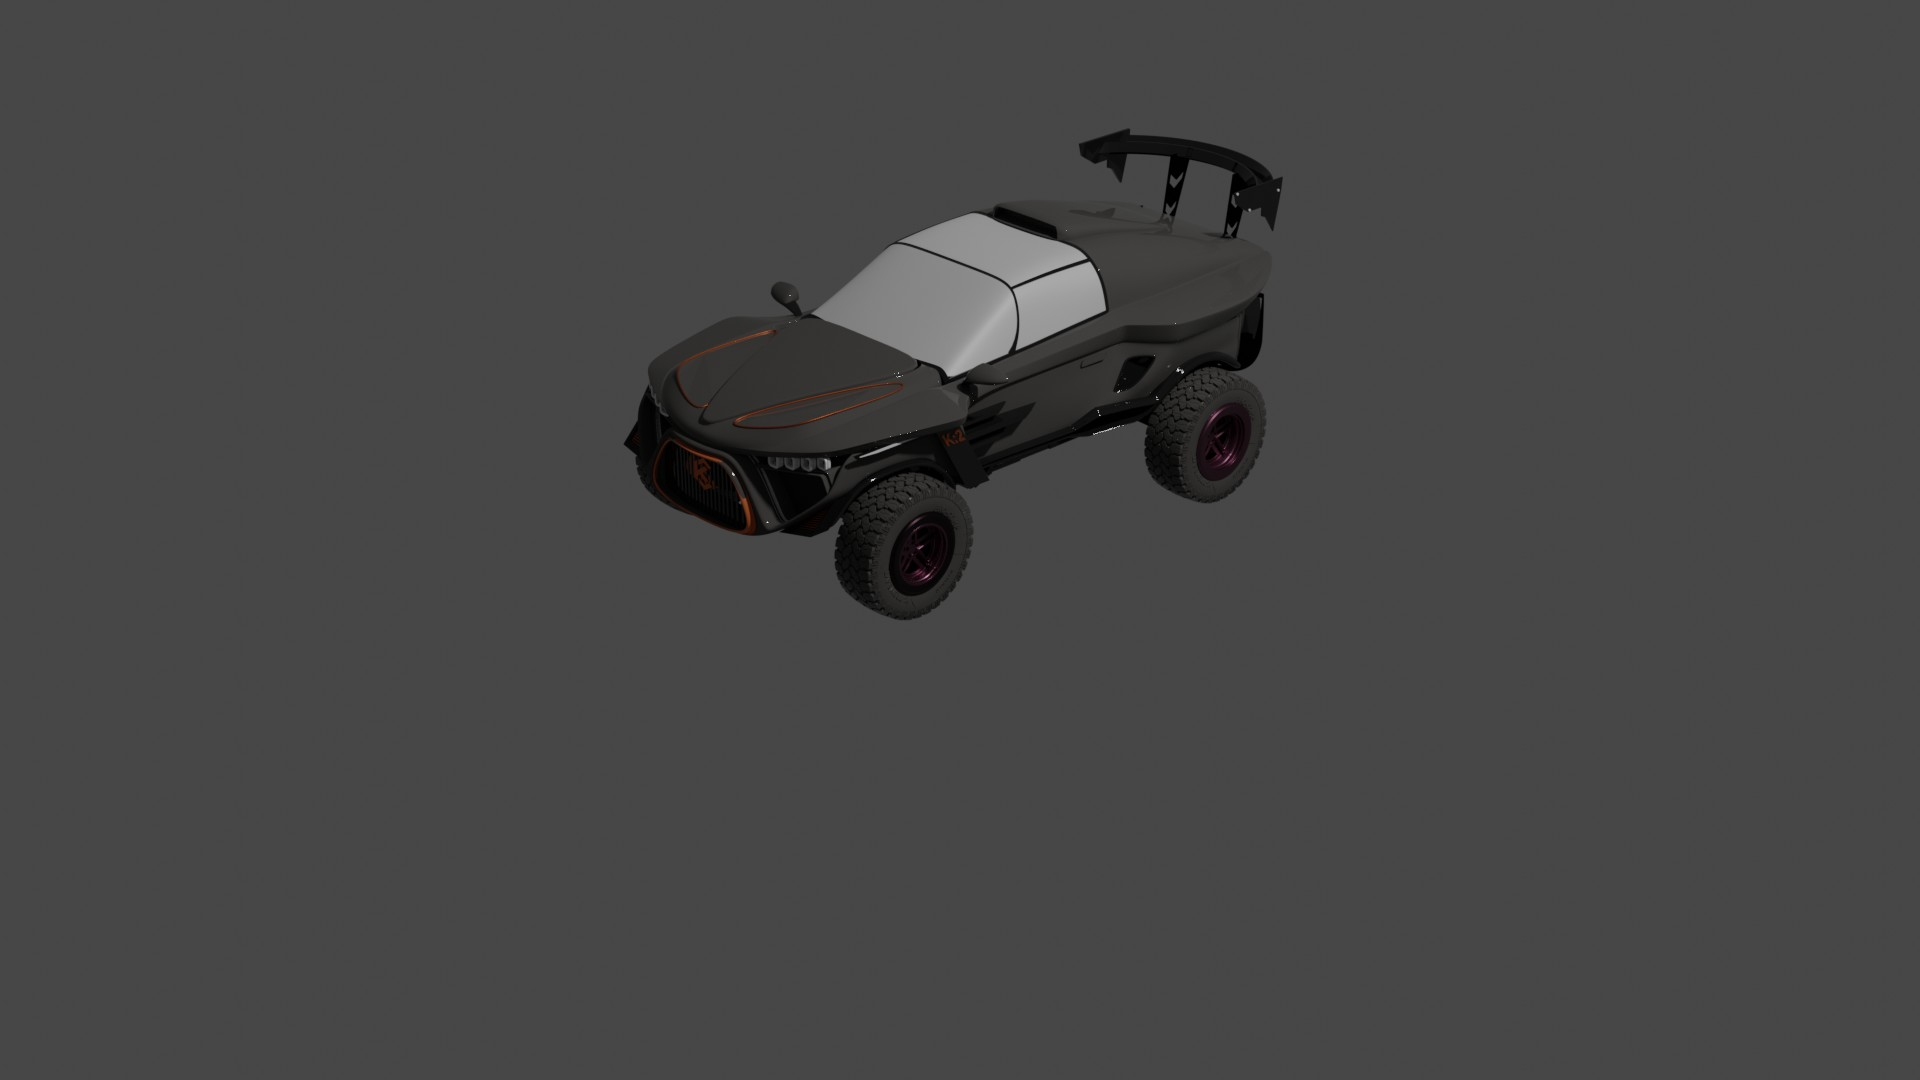
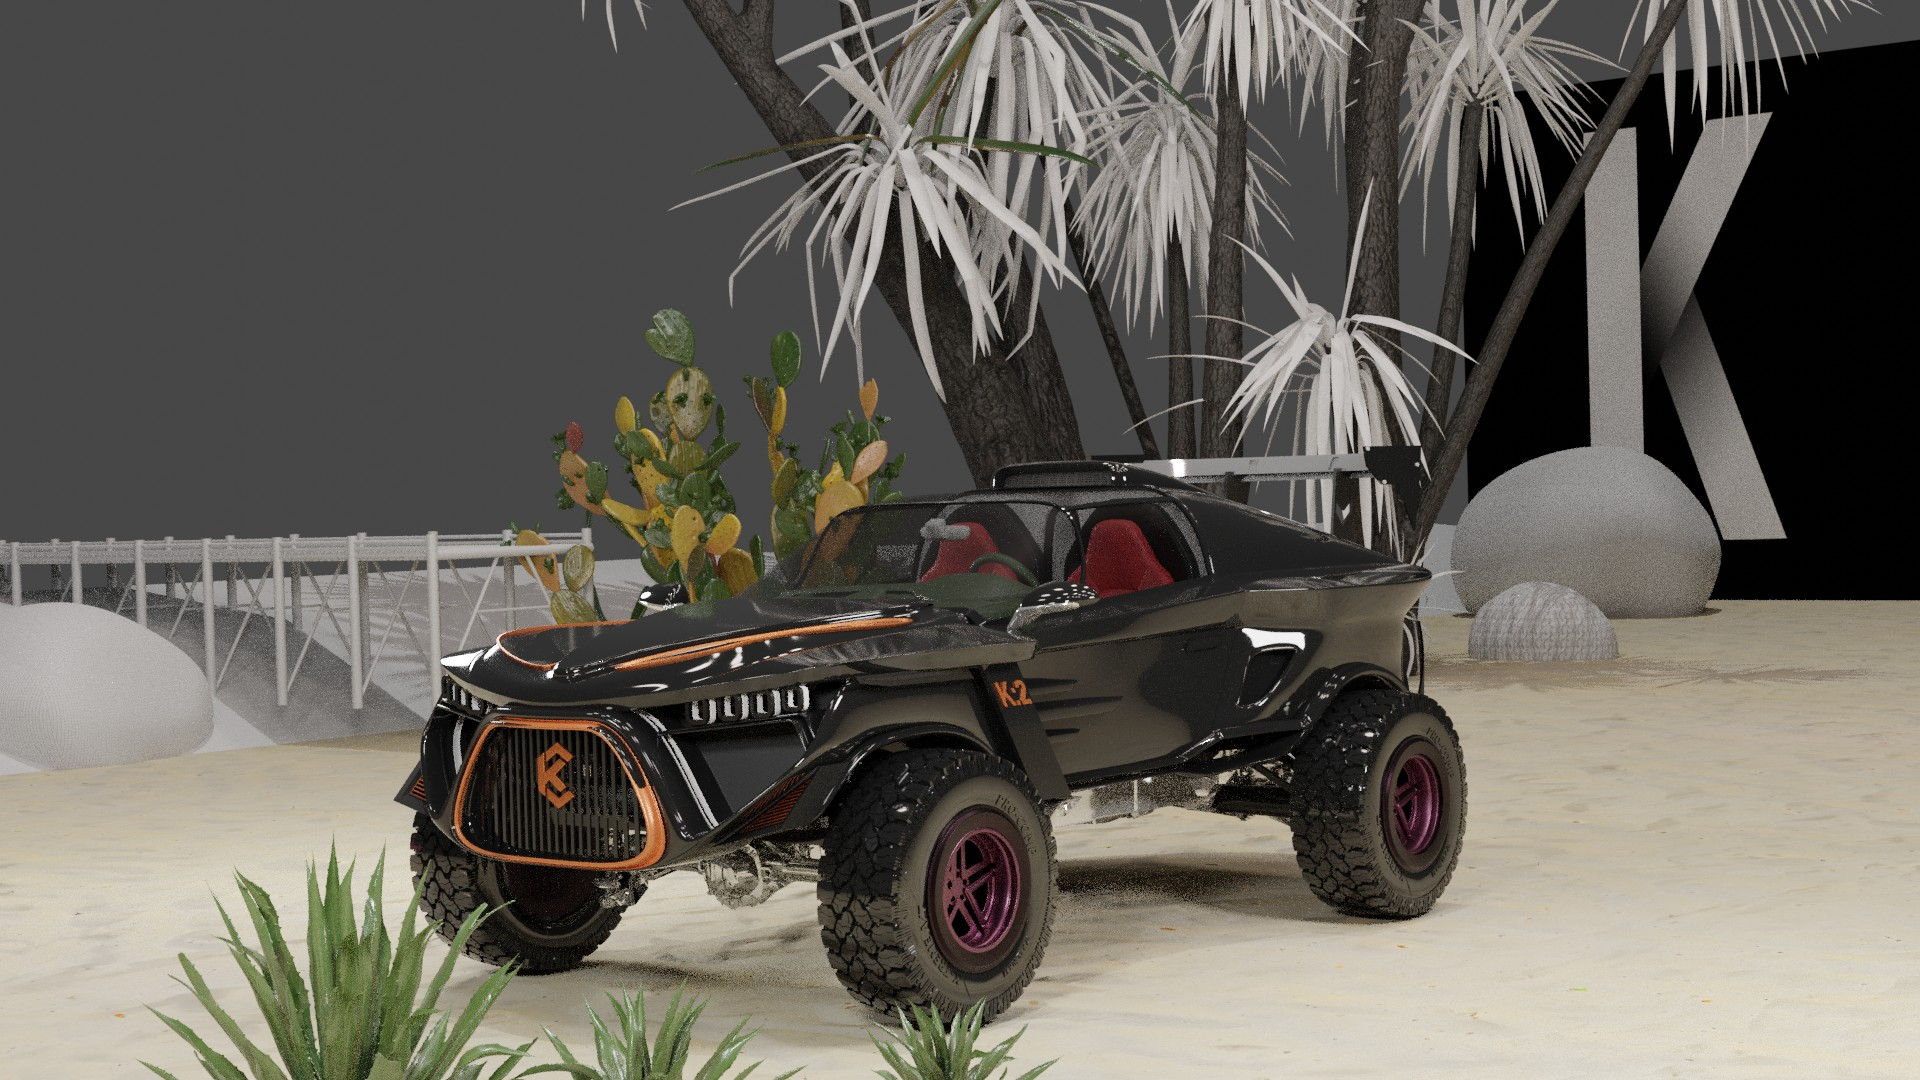
added render code

diff --git a/kadcarsnft_api/NFTFusion/test.py b/kadcarsnft_api/NFTFusion/test.py
@@ -1,0 +1,103 @@
+import bpy
+from bpy import context
+import os
+import math
+
+from render_utils import create_area_light_object
+
+path_to_glb_folder = "/usr/src/app/kadcars_backend_api/kadcarsnft_api/NFTFusion/assets" # If you are using Windows use r"\Users\Path\To\Folder"
+path_to_jpeg_folder = "/usr/src/app/kadcars_backend_api/kadcarsnft_api/NFTFusion/assets"
+
+def deleteAllObjects():
+    """
+    Deletes all objects in the current scene
+    """
+    deleteListObjects = ['MESH', 'CURVE', 'SURFACE', 'META', 'FONT', 'HAIR', 'POINTCLOUD', 'VOLUME', 'GPENCIL',
+                         'ARMATURE', 'LATTICE', 'EMPTY', 'LIGHT', 'LIGHT_PROBE', 'CAMERA', 'SPEAKER']
+
+    # Select all objects in the scene to be deleted:
+
+    for o in bpy.context.scene.objects:
+        for i in deleteListObjects:
+            if o.type == i:
+                o.select_set(False)
+            else:
+                o.select_set(True)
+    bpy.ops.object.delete() # Deletes all selected objects in the scene
+
+deleteAllObjects()
+
+glb_dirList = os.listdir(path_to_glb_folder)
+
+removeList = [".gitignore", ".DS_Store"] # If you have . files in your directory
+glb_dirList = [x for x in glb_dirList if (x not in removeList)]
+
+
+# bpy.ops.import_scene.gltf(filepath=os.path.join(path_to_glb_folder, "tessst.glb")) # Import .glb file to scene
+bpy.ops.import_scene.gltf(filepath=os.path.join(path_to_glb_folder, "GLTF.glb")) # Import .glb file to scene
+bpy.context.scene.render.filepath = path_to_jpeg_folder # Set save path for images
+bpy.context.scene.render.image_settings.file_format = "JPEG" # Set image file format
+# bpy.ops.object.camera_add(location=(0, 2, 4), rotation=(-0.7853, 0, 0))
+# bpy.ops.object.camera_add(location=(1,6,6), rotation=(0, math.pi/2, 0))
+obj_camera = bpy.data.objects["Camera"]
+bpy.context.scene.camera = obj_camera
+bpy.context.scene.render.engine = 'CYCLES'
+
+obj = bpy.data.objects["Object004.001"]
+obj.rotation_mode = 'XYZ'
+
+rotate_by = 4.21875   #How many degrees to rotate the knob for every step
+start_angle = 45      #What angle to start from
+
+# bpy.ops.object.light_add(type='AREA', location=[5, 5, 5])
+# light_ob = bpy.context.object
+# light = light_ob.data
+# light.energy = 50
+# light.color = (1, 1, 1)
+
+# bpy.ops.object.light_add(type='AREA', location=[15, 15, 15])
+# light_ob = bpy.context.object
+# light = light_ob.data
+# light.energy = 1000
+# light.color = (1, 0, 0)
+
+metadata = {
+    "align":'WORLD',
+    "location": [5,5,5],
+    "rotation": [0,0,0],
+    "scale": [0.683125, 2.105, 0.683],
+    "energy": 1000,
+    "color": [0,1,0],
+    "diffuse_factor": 1.0,
+    "specular_factor": 1.0,
+    "volume_factor": 1.0,
+    "shape": 'RECTANGLE',
+    "size": 0.25,
+    "size_y": 0.25,
+}
+metadata2 = {
+    "align":'WORLD',
+    "location": [15,15,15],
+    "rotation": [0,0,0],
+    "scale": [0.683125, 2.105, 0.683],
+    "energy": 1000,
+    "color": [1,0,0],
+    "diffuse_factor": 1.0,
+    "specular_factor": 1.0,
+    "volume_factor": 1.0,
+    "shape": 'RECTANGLE',
+    "size": 0.25,
+    "size_y": 0.25,
+}
+
+create_area_light_object(metadata)
+create_area_light_object(metadata2)
+
+# for x in range(1,65):
+#     angle = (start_angle * (math.pi/180)) + (x-1) * (rotate_by * (math.pi/180))
+#     obj.rotation_euler = ( angle, 0,  0)
+
+bpy.ops.render.render(write_still=True) # Tell Blender to render an image
+
+
+deleteAllObjects()

diff --git a/kadcarsnft_api/NFTFusion/views.py b/kadcarsnft_api/NFTFusion/views.py
@@ -4,11 +4,12 @@ import django
 from django.shortcuts import render
 from constants import *
 from blender_utils import deleteAllObjects
+from render_factory import *
 
 # Create your views here.
 
 
-def renderGltfModel():
+def renderModel(payload):
     deleteAllObjects()
 
     glb_dirList = os.listdir(path_to_glb_folder)
@@ -17,10 +18,15 @@ def renderGltfModel():
     removeList = [".gitignore", ".DS_Store"]
     glb_dirList = [x for x in glb_dirList if (x not in removeList)]
 
+    # import the scene with in the appropriate format as indicated by the payload
+    if payload["type"] == "fbx":
+        bpy.ops.import_scene.fbx(filepath=os.path.join(path_to_glb_folder, "./assets/balckk.fbx"))
+    elif payload["type"] == "gltf":
+        bpy.ops.import_scene.fbx(filepath=os.path.join(path_to_glb_folder, "./assets/balckk.fbx"))
 
     # bpy.ops.import_scene.gltf(filepath=os.path.join(path_to_glb_folder, "tessst.glb")) # Import .glb file to scene
-    bpy.ops.import_scene.fbx(filepath=os.path.join(
-        path_to_glb_folder, "./assets/balckk.fbx"))  # Import .glb file to scene
+    bpy.ops.import_scene.gltf(filepath=os.path.join(
+        path_to_glb_folder, "./assets/2.glb"))  # Import .glb file to scene
     bpy.context.scene.render.filepath = path_to_jpeg_folder  # Set save path for images
     bpy.context.scene.render.image_settings.file_format = "JPEG"  # Set image file format
     # bpy.ops.object.camera_add(location=(0, 2, 4), rotation=(-0.7853, 0, 0))

diff --git a/kadcarsnft_api/NFTFusion/render_utils.py b/kadcarsnft_api/NFTFusion/render_utils.py
@@ -1,0 +1,39 @@
+import bpy
+from bpy.types import Light
+
+def rotate_render(model_file):
+    for object in bpy.data.objects:
+        print(object)
+
+
+def create_area_light_object(light_metadata):
+    # bpy.ops.object.light_add(
+    #     type='AREA', 
+    #     # radius=light_metadata['radius'], 
+    #     align=light_metadata['align'],
+    #     # location=light_metadata['location'], 
+    #     # rotation=light_metadata['rotation'], 
+    #     # scale=light_metadata['scale']
+    # )
+    # light_ob = bpy.context.object
+    # light = light_ob.data
+
+    light = bpy.data.lights.new(name="test-light", type='AREA')
+    print(dir(light))
+    light.energy = light_metadata['energy']
+    light.color = light_metadata['color']
+    light.shape = light_metadata['shape']
+
+    light.diffuse = light_metadata['diffuse_factor']
+    light.specular_factor = light_metadata['specular_factor']
+    light.volume_factor = light_metadata['volume_factor']
+
+    if light_metadata['shape'] == 'RECTANGLE':
+        light.size = light_metadata['size']
+        light.size_y = light_metadata['size_y']
+
+    light_object = bpy.data.objects.new(name="omarscock", object_data=light)
+
+    light_object.location = light_metadata['location']
+    light_object.rotation = light_metadata['rotation']
+    light_object.scale = light_metadata['scale']

diff --git a/kadcarsnft_api/NFTFusion/constants.py b/kadcarsnft_api/NFTFusion/constants.py
@@ -1,2 +1,2 @@
-path_to_glb_folder = "/usr/src/app/kadcarsnft" # If you are using Windows use r"\Users\Path\To\Folder"
-path_to_jpeg_folder = "/usr/src/app/kadcarsnft"
+path_to_glb_folder = "/usr/src/app/kadcars_backend_api/kadcarsnft_api/NFTFusion/assets" # If you are using Windows use r"\Users\Path\To\Folder"
+path_to_jpeg_folder = "/usr/src/app/kadcars_backend_api/kadcarsnft_api/NFTFusion/assets"

diff --git a/kadcarsnft_api/NFTFusion/urls.py b/kadcarsnft_api/NFTFusion/urls.py
@@ -2,5 +2,5 @@ from django.urls import path
 from . import views
 
 urlpatterns = [
-    path('renderGltfModel/', views.renderGltfModel, name='renderGltfModel')
+    path('renderModel/', views.renderGltfModel, name='renderModel')
 ]

diff --git a/kadcarsnft_api/NFTFusion/render_factory.py b/kadcarsnft_api/NFTFusion/render_factory.py
@@ -1,0 +1,6 @@
+
+def renderGltf():
+    pass
+
+def renderFbx():
+    pass
